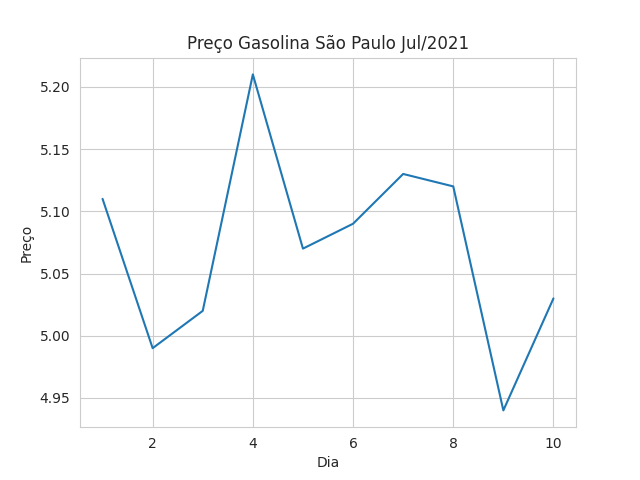
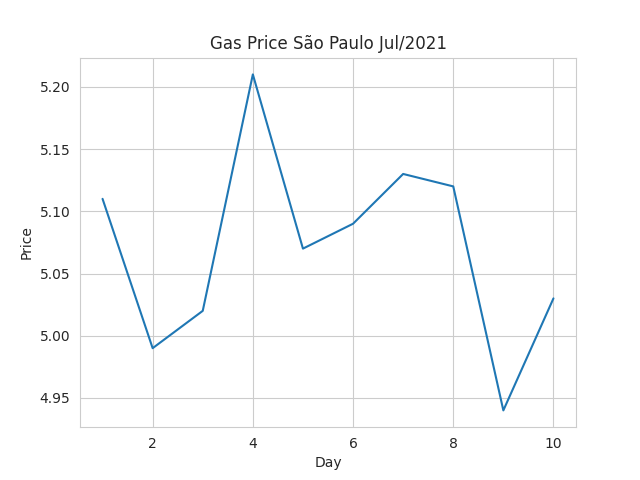
arquivos gasolina.py e gasolina.png alterados

Changed region(s): [[0.2812, 0.0625, 0.7188, 0.125], [0.4688, 0.9375, 0.5312, 1.0], [0.0312, 0.4688, 0.0625, 0.5625]]

diff --git a/gasolina.py b/gasolina.py
@@ -6,5 +6,5 @@ gas_df = pd.read_csv('gasolina.csv')
 
 with sns.axes_style('whitegrid'):
   grafico = sns.lineplot(data=gas_df, x='dia', y='venda')
-  grafico.set(title='Preço Gasolina São Paulo Jul/2021', xlabel='Dia', ylabel='Preço')
+  grafico.set(title='Gas Price São Paulo Jul/2021', xlabel='Day', ylabel='Price')
   plt.savefig('gasolina.png', format='png')
